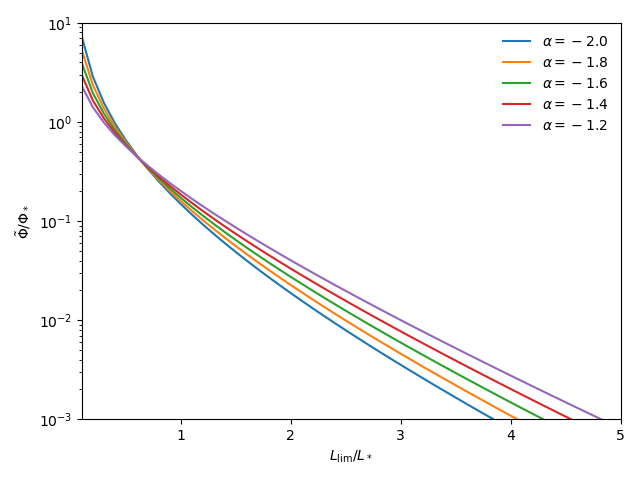
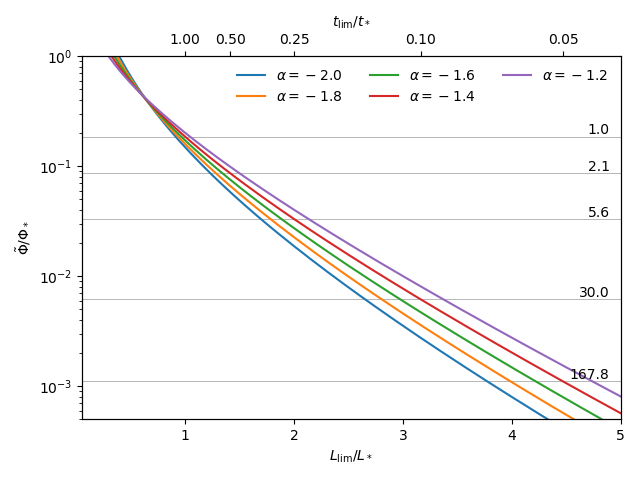
Update.

diff --git a/schechters.py b/schechters.py
@@ -8,17 +8,31 @@ from   scipy.integrate   import quad
 alphas = np.arange(-2.0, -1.0, 0.2)
 
 # x = L / L*
-xmins  = np.arange(0.1, 10., 0.1) 
+xmins  = np.arange(0.05, 10., 0.05) 
+
+for x in np.arange(1, 6, 1):
+    print('{:.4f} \t {:.4f}'.format(x, -2.5 * np.log10(x)))
 
 def integrand(x, alpha):
     return  (x**alpha) * np.exp(-x) 
 
 output = [xmins]
 
-for alpha in alphas:
-    # y = Phi / Phi*
-    ys = []
+colors = plt.rcParams['axes.prop_cycle'].by_key()['color']
 
+base   = quad(integrand, 1.0,  np.inf, args=(-1.4))[0]
+
+for t in [1.0, 0.5, 0.25, 0.1, 0.05]:
+    lvl = quad(integrand, t**-0.5,  np.inf, args=(-1.4))[0]
+    
+    pl.axhline(lvl, c='k', alpha=0.5, lw=0.4)
+
+    plt.text(4.9, 1.05 * lvl, '{:.1f}'.format(np.around(base / lvl, 1)), horizontalalignment='right')
+               
+for alpha, color in zip(alphas, colors):
+    # y = Phi / Phi*
+    ys   = []
+    
     for xmin in xmins:
       ys.append(quad(integrand, xmin,  np.inf, args=(alpha))[0])
 
@@ -28,21 +42,33 @@ for alpha in alphas:
 
     pl.semilogy(xmins, ys, label=r'$\alpha={:.1f}$'.format(alpha))
 
-
-output = np.array(output).T
+output  = np.array(output).T
 
 header  = 'L / L*'.ljust(23)
 header += ''.join(['Phi(alpha={:.1f})/Phi*'.format(a).ljust(25) for a in alphas]) 
 
 np.savetxt('dat/schechters.txt', output, header=header)
-    
+
 pl.xlabel(r'$L_{\rm lim} / L_*$')
 pl.ylabel(r'$\tilde \Phi / \Phi_*$')
 
-pl.xlim(0.1, 5.0)
-pl.ylim(1.e-3, 10.)
+pl.xlim(0.05, 5.0)
+pl.ylim(5.e-4, 1.)
 
-pl.legend(frameon=False)
+pl.legend(frameon=False, loc=1, ncol=3)
+
+ax      = pl.gca()
+ax2     = ax.twiny()
+
+ax2.set_xlim(ax.get_xlim())
+
+ts      = np.array([0.05, 0.1, 0.25, 0.5, 1.0])
+xs      = ts**-0.5
+
+ax2.set_xticks(xs)
+ax2.set_xticklabels(['{:.2f}'.format(t) for t in ts])
+
+ax2.set_xlabel(r'$t_{\rm lim} / t_*$')
 
 plt.tight_layout()
 

diff --git a/dat/parsa.tex b/dat/parsa.tex
@@ -1,0 +1,9 @@
+\begin{tabular}{rrrrrrrr}
+\toprule
+   z &     M* &     Phi* &  alpha &      chi &  distmod &  kcorr &  mstar \\
+\midrule
+ 1.9 & -19.68 &  0.02327 &  -1.32 &  3564.24 &    45.92 &  -1.16 &  25.09 \\
+ 2.8 & -20.20 &  0.01762 &  -1.31 &  4368.20 &    46.95 &  -1.45 &  25.30 \\
+ 3.8 & -20.71 &  0.00666 &  -1.43 &  4991.67 &    47.75 &  -1.70 &  25.33 \\
+\bottomrule
+\end{tabular}

diff --git a/parsa.py b/parsa.py
@@ -1,0 +1,15 @@
+import pandas as pd
+
+
+with open('dat/parsa.txt') as f:
+    line  = f.readline()
+    line  = f.readline()
+    line  = line.replace('# ', '')
+    
+    names = line.split()
+    
+data = pd.read_csv('dat/parsa.txt', sep='\s+', comment ='#', names=names)
+data = data.to_latex(index=False)
+
+with open('dat/parsa.tex', 'w') as tf:
+     tf.write(data)
